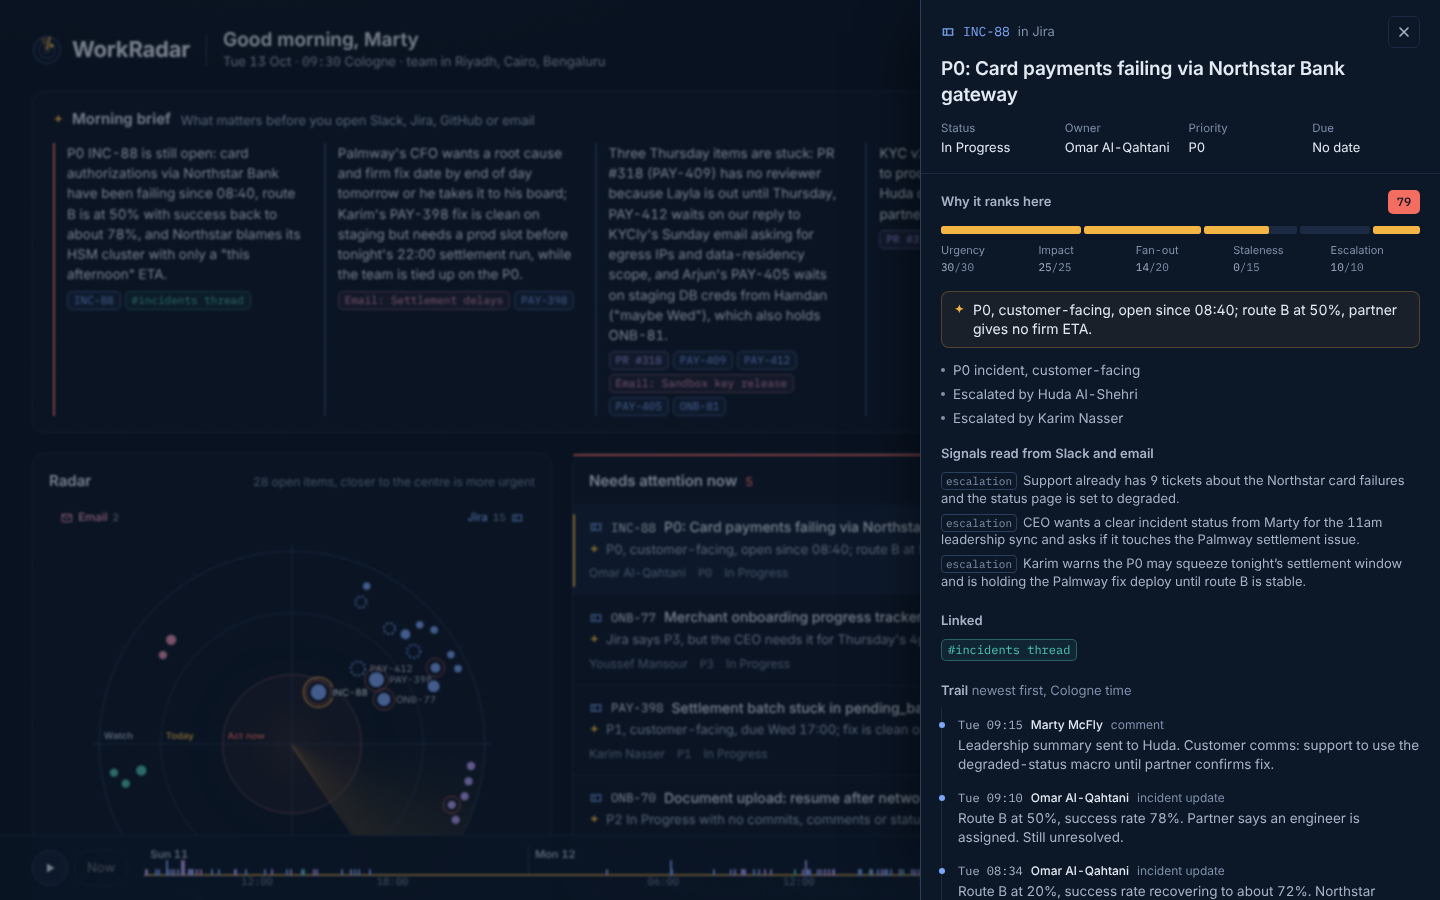
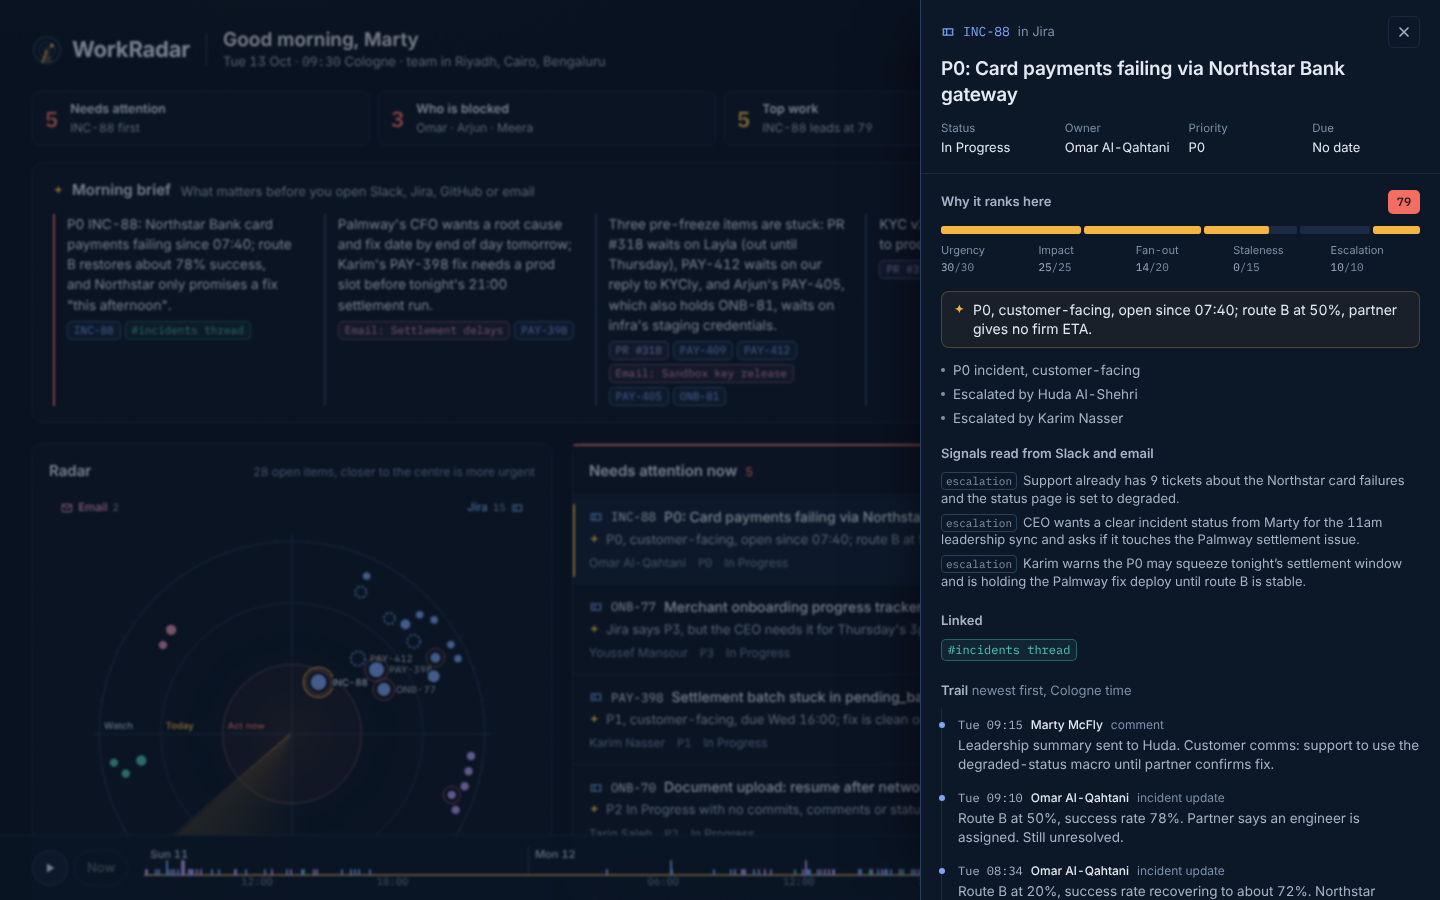
Review fixes: at-a-glance strip, sticky radar, clamp brief, whole-sentence nudges, short Ask answers, gate /api/diag
Claude-Session: https://claude.ai/code/session_01PQcJWG2dSx8cDgz6gXEZE4

diff --git a/src/components/Glance.tsx b/src/components/Glance.tsx
@@ -1,0 +1,52 @@
+"use client";
+import type { ReactNode } from "react";
+import type { BoardState } from "@/lib/types";
+import { formatInManagerTz } from "@/lib/board";
+
+/** Jump to a panel and flash it so the eye lands in the right place. */
+function jump(id: string) {
+  const el = document.getElementById(id)?.closest("section");
+  if (!el) return;
+  el.scrollIntoView({ behavior: window.matchMedia("(prefers-reduced-motion: reduce)").matches ? "auto" : "smooth", block: "start" });
+  el.classList.remove("panel-flash");
+  void (el as HTMLElement).offsetWidth;
+  el.classList.add("panel-flash");
+  window.setTimeout(() => el.classList.remove("panel-flash"), 1400);
+}
+
+function Tile({ label, value, detail, color, target }: { label: string; value: ReactNode; detail: ReactNode; color: string; target: string }) {
+  return (
+    <button
+      type="button"
+      onClick={() => jump(target)}
+      className="group flex min-w-0 items-center gap-3 rounded-lg border border-line bg-panel/90 px-3 py-2 text-left transition-colors hover:border-line-strong hover:bg-raised"
+    >
+      <span className="font-mono text-[22px] font-semibold leading-none tabular-nums" style={{ color }}>{value}</span>
+      <span className="min-w-0">
+        <span className="block text-[12.5px] font-semibold text-fg">{label}</span>
+        <span className="block truncate text-[12px] text-dim">{detail}</span>
+      </span>
+    </button>
+  );
+}
+
+export function Glance({ board }: { board: BoardState }) {
+  const top = board.top[0];
+  const latest = board.happened[0];
+  const names = board.blocked.map((b) => b.person.name.split(" ")[0]);
+  const attn = board.attention[0];
+  return (
+    <nav aria-label="At a glance" className="mb-4 grid grid-cols-2 gap-2 lg:grid-cols-4">
+      <Tile label="Needs attention" value={board.attention.length} color="var(--crit)" target="p-attention" detail={attn ? `${attn.item.key} first` : "Nothing urgent"} />
+      <Tile label="Who is blocked" value={board.blocked.length} color="var(--crit)" target="p-blocked" detail={names.length ? names.join(" · ") : "Nobody"} />
+      <Tile label="Top work" value={board.top.length} color="var(--signal)" target="p-top" detail={top ? `${top.item.key} leads at ${top.score.total}` : "Nothing ranked"} />
+      <Tile
+        label="What happened"
+        value={board.happened.length}
+        color="var(--dim)"
+        target="p-happened"
+        detail={latest ? `${formatInManagerTz(latest.event.ts).slice(4)} ${latest.label}` : "Quiet since 08:00"}
+      />
+    </nav>
+  );
+}

diff --git a/src/components/Ask.tsx b/src/components/Ask.tsx
@@ -1,5 +1,5 @@
 "use client";
-import { forwardRef, useState } from "react";
+import { forwardRef, useEffect, useRef, useState } from "react";
 import type { AskResponse, CompactBoard, RecentEvent } from "@/lib/api-types";
 import { KeyChip, Kbd, Sparkle } from "./ui";
 import { metaLine, postJson } from "./api";
@@ -17,6 +17,11 @@ export const Ask = forwardRef<HTMLInputElement, { getBoard: () => { board: Compa
   function Ask({ getBoard, onSelect, replaying }, ref) {
     const [q, setQ] = useState("");
     const [state, setState] = useState<State>({ status: "idle" });
+    const answerRef = useRef<HTMLDivElement>(null);
+    useEffect(() => {
+      // bring the answer fully into view, clear of the replay bar (scroll-padding-bottom on html)
+      if (state.status === "ready" || state.status === "error") answerRef.current?.scrollIntoView({ block: "nearest", behavior: "smooth" });
+    }, [state.status]);
 
     async function ask(question: string) {
       const text = question.trim();
@@ -68,7 +73,7 @@ export const Ask = forwardRef<HTMLInputElement, { getBoard: () => { board: Compa
         </div>
         {replaying && state.status === "idle" && <p className="mt-3 text-[12.5px] text-faint">Answers use the board at the replay time.</p>}
 
-        <div aria-live="polite">
+        <div aria-live="polite" ref={answerRef} className="scroll-mb-28">
           {state.status === "loading" && (
             <div className="mt-4 space-y-2 border-t border-line pt-4" aria-label="Thinking">
               <div className="skeleton h-3.5 w-[95%]" />
@@ -88,7 +93,7 @@ export const Ask = forwardRef<HTMLInputElement, { getBoard: () => { board: Compa
                   <p className="mt-1 text-[14px] leading-relaxed text-dim">{state.data.answer}</p>
                 </div>
               ) : (
-                <p className="mt-2 text-[14.5px] leading-[1.6] text-fg" style={{ textWrap: "pretty" }}>{state.data.answer}</p>
+                <p className="mt-2 whitespace-pre-line text-[14.5px] leading-[1.6] text-fg" style={{ textWrap: "pretty" }}>{state.data.answer}</p>
               )}
               {state.data.citations.length > 0 && (
                 <div className="mt-2.5 flex flex-wrap gap-1">{state.data.citations.map((c) => <KeyChip key={c} id={c} onSelect={onSelect} size="xs" />)}</div>

diff --git a/src/components/Brief.tsx b/src/components/Brief.tsx
@@ -8,6 +8,7 @@ export type BriefState = { status: "loading" } | { status: "ready"; data: BriefR
 
 export function Brief({ state, onSelect, replaying, nowLabel }: { state: BriefState; onSelect: (id: string) => void; replaying: boolean; nowLabel: string }) {
   const [expanded, setExpanded] = useState(false);
+  const [open, setOpen] = useState<Record<number, boolean>>({});
   return (
     <section aria-labelledby="brief-h" className="relative rounded-xl border border-line bg-panel/90">
       <header className="flex flex-wrap items-baseline justify-between gap-x-4 gap-y-1 px-4 pt-4 sm:px-5">
@@ -42,7 +43,12 @@ export function Brief({ state, onSelect, replaying, nowLabel }: { state: BriefSt
           <ol className="grid gap-x-5 gap-y-4 sm:grid-cols-2 lg:grid-cols-3 xl:grid-cols-5">
             {state.data.sentences.slice(0, 5).map((s, i) => (
               <li key={i} className={`${!expanded && i >= 3 ? "max-sm:hidden" : ""} border-l-2 pl-3 text-[13.5px] leading-[1.5] text-fg ${i === 0 ? "border-crit" : "border-line-strong"}`} style={{ textWrap: "pretty" }}>
-                {s.text}
+                <span className={`block ${open[i] ? "" : "line-clamp-5"}`}>{s.text}</span>
+                {s.text.length > 210 && (
+                  <button type="button" onClick={() => setOpen((o) => ({ ...o, [i]: !o[i] }))} aria-expanded={!!open[i]} className="mt-0.5 text-[12.5px] font-medium text-signal hover:underline">
+                    {open[i] ? "less" : "more"}
+                  </button>
+                )}
                 <span className="mt-1.5 flex flex-wrap gap-1">
                   {s.citations.map((c) => <KeyChip key={c} id={c} onSelect={onSelect} size="xs" />)}
                 </span>

diff --git a/src/components/App.tsx b/src/components/App.tsx
@@ -10,6 +10,7 @@ import { Radar, RadarLegend } from "./Radar";
 import { AttentionPanel, BlockedPanel, HappenedPanel, TopPanel } from "./Panels";
 import type { ReasonText } from "./Panels";
 import { Brief } from "./Brief";
+import { Glance } from "./Glance";
 import type { BriefState } from "./Brief";
 import { Ask } from "./Ask";
 import { Replay } from "./Replay";
@@ -198,11 +199,13 @@ export default function App() {
       <div className="mx-auto w-full max-w-[1520px] flex-1 px-4 sm:px-6 lg:px-8">
         <Header live={live} briefMode={brief.status === "ready" ? brief.data.mode : null} onTriage={() => setTriageOpen(true)} triaged={triagedCount} total={triageQueue.length} />
 
+        <Glance board={board} />
+
         <Brief state={brief} onSelect={setSelectedId} replaying={replaying} nowLabel={nowLabel} />
 
         <div className="mt-5 grid gap-5 lg:grid-cols-[minmax(0,500px)_minmax(0,1fr)] xl:grid-cols-[minmax(0,520px)_minmax(0,1fr)]">
-          <div className="min-w-0 space-y-5">
-            <section aria-labelledby="radar-h" className="rounded-xl border border-line bg-panel/90 p-4 lg:sticky lg:top-4">
+          <div className="min-w-0 space-y-5 lg:sticky lg:top-4 lg:self-start">
+            <section aria-labelledby="radar-h" className="rounded-xl border border-line bg-panel/90 p-4">
               <div className="flex items-baseline justify-between gap-3">
                 <h2 id="radar-h" className="text-[15px] font-semibold">Radar</h2>
                 <p className="text-[12px] text-faint">{board.items.length} open items, closer to the centre is more urgent</p>

diff --git a/src/lib/ai.ts b/src/lib/ai.ts
@@ -174,8 +174,12 @@ export function validateReasons(valid: Set<string>) {
 
 export function validateNudge(text: string): string | null {
   const t = text.trim().replace(/^["`]+|["`]+$/g, "").trim();
-  const words = t.split(/\s+/).length;
-  return t && words <= 60 ? t : null; // prompt asks <= 45; small tolerance, otherwise fall back to cache
+  if (!t) return null;
+  // Never show a message cut off mid-sentence: trim to the last full sentence if needed.
+  const m = t.match(/^[\s\S]*[.!?](?=\s|$)/);
+  const whole = /[.!?]$/.test(t) ? t : m ? m[0].trim() : null;
+  if (!whole) return null;
+  return whole.split(/\s+/).length <= 60 ? whole : null; // prompt asks <= 45; small tolerance, otherwise fall back to cache
 }
 
 const KINDS = new Set(["blocker", "escalation", "decision_request", "priority_conflict", "ooo"]);

diff --git a/src/lib/prompts.ts b/src/lib/prompts.ts
@@ -122,7 +122,7 @@ export function briefUser(b: CompactBoard): string {
 export const ASK_SYSTEM = `You answer a manager's question about their team's work using only the board data and recent events provided.
 ${GROUNDING}
 
-- Answer directly in 1 to 4 sentences, most important fact first. Name people and keys.
+- Answer in at most 4 short lines (under 20 words each), most important first, one line per person or item, separated by newlines. Name people and keys. No preamble.
 - List the ids of the items you relied on in "citations" (only ids from the ITEMS list).
 - If the data does not contain the answer (for example salaries, opinions, anything about the future that is not scheduled in the data), set "notInData": true, say briefly what the data does cover, and leave citations empty. Do not guess.
 

diff --git a/src/app/api/diag/route.ts b/src/app/api/diag/route.ts
@@ -31,7 +31,11 @@ async function probe(client: Anthropic, model: string, withTemperature: boolean,
   }
 }
 
-export async function GET() {
+// Gated: only answers when DIAG_TOKEN is set on the server and passed as ?token=..., so the public
+// deploy does not expose a token-spending endpoint.
+export async function GET(req: Request) {
+  const token = process.env.DIAG_TOKEN;
+  if (!token || new URL(req.url).searchParams.get("token") !== token) return new Response("Not found", { status: 404 });
   if (!hasKey()) return Response.json({ keyConfigured: false });
   const client = getClient()!;
   const out: Record<string, unknown> = { keyConfigured: true };

diff --git a/src/app/api/nudge/route.ts b/src/app/api/nudge/route.ts
@@ -17,7 +17,7 @@ export async function POST(req: Request) {
   let reason = undefined as NudgeResponse["fallbackReason"];
   if (key) {
     const r = await liveText(
-      { model: MODELS.fast, system: NUDGE_SYSTEM, user: nudgeUser(body.item, body.ownerName, body.managerName), maxTokens: 120 },
+      { model: MODELS.fast, system: NUDGE_SYSTEM, user: nudgeUser(body.item, body.ownerName, body.managerName), maxTokens: 260 },
       validateNudge
     );
     if (r.ok) return NextResponse.json({ mode: "live", usage: r.usage, message: r.value } satisfies NudgeResponse);

diff --git a/src/app/globals.css b/src/app/globals.css
@@ -69,6 +69,20 @@
 
 html {
   background: var(--ink);
+  /* keep scrolled-to content clear of the sticky replay bar */
+  scroll-padding-bottom: 96px;
+  scroll-padding-top: 16px;
+}
+
+@keyframes panel-flash {
+  0%, 40% { box-shadow: 0 0 0 2px var(--signal); }
+  100% { box-shadow: 0 0 0 2px transparent; }
+}
+.panel-flash {
+  animation: panel-flash 1.4s ease-out;
+}
+@media (prefers-reduced-motion: reduce) {
+  .panel-flash { animation: none; outline: 2px solid var(--signal); }
 }
 
 body {

diff --git a/README.md b/README.md
@@ -26,7 +26,7 @@ Beyond the four panels:
 - **Radar.** Every open item is a blip: the sector is its source tool, distance from the centre is urgency, and blocked items are hollow.
 - **Day replay.** Drag the scrubber, or press play, to rebuild the board at any moment of the week.
 - **Triage mode.** Press T, then use A to acknowledge, D to delegate, S to snooze and N for an AI-drafted nudge to the owner.
-- **Ask.** Press / to ask a question; answers come only from the data, with citations.
+- **Ask.** Press / to ask a question. The prompt restricts answers to the data, and the cited ids are checked against it.
 - **Item drawer.** Click any item for its score breakdown and its full event trail across tools.
 
 ## How the AI is used
@@ -43,7 +43,12 @@ Rules rank, and AI reads and explains. The priority score is computed in code, s
 
 **Live and demo modes.** With `ANTHROPIC_API_KEY` set, calls are live, and the UI shows the model, token count and latency for each one. Without a key, or if a call fails or times out, the app serves precomputed outputs from `data/ai-cache/` and labels them "Demo". The app therefore runs for anyone, with no setup.
 
-**Records.** Where AI was used and what was changed by hand is recorded in `docs/ai-usage-log.md`. Token use is in `docs/token-log.md`.
+**Records.** Where AI was used and what was changed by hand is recorded in `docs/ai-usage-log.md`. Token use is in `docs/token-log.md`; agent and live-call figures are exact, and orchestrator figures are approximate.
+
+## Documents
+
+- `docs/WorkRadar-PRD.pdf`: product requirements
+- `docs/WorkRadar-AI-Workflow.pdf`: how AI was used to build it, and what was changed by hand
 
 ## Proof it works
 
@@ -75,7 +80,7 @@ data/                 mock people, items, events, planted signals, AI cache
 src/lib/board.ts      replay events to any time, score, assign panels
 src/lib/prompts.ts    every prompt the app sends to Claude
 src/lib/ai.ts         Claude client, validation, live/demo fallback
-src/app/api/          brief, ask, reasons, nudge, extract, status, diag
+src/app/api/          brief, ask, reasons, nudge, extract, status (+ diag, disabled unless DIAG_TOKEN is set)
 src/components/       radar, panels, replay, triage, ask, drawer
 scripts/              ground-truth check
 docs/                 AI usage log, token log, screenshots
